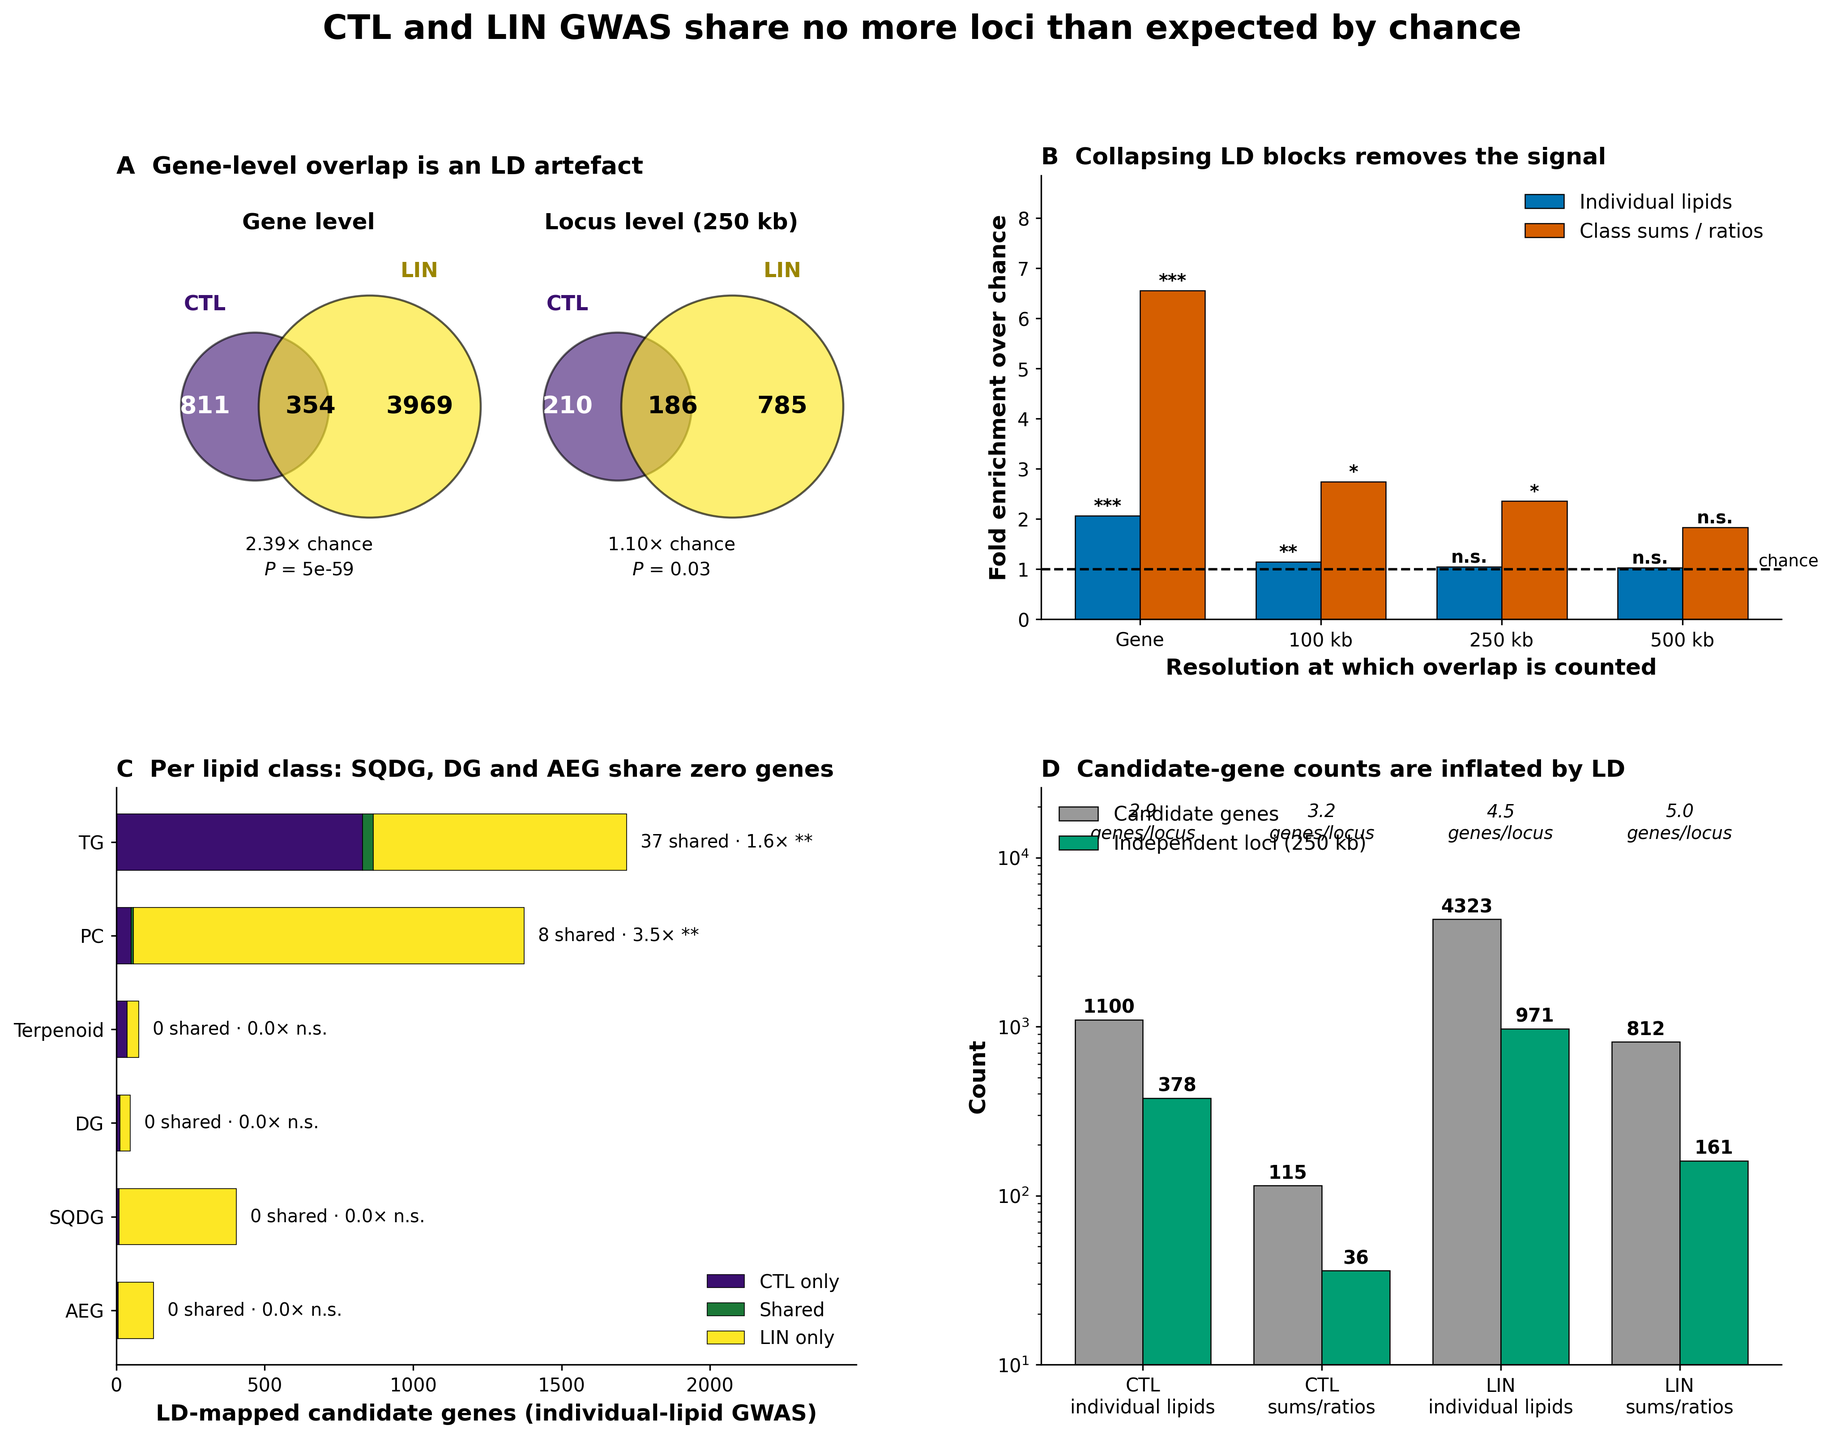
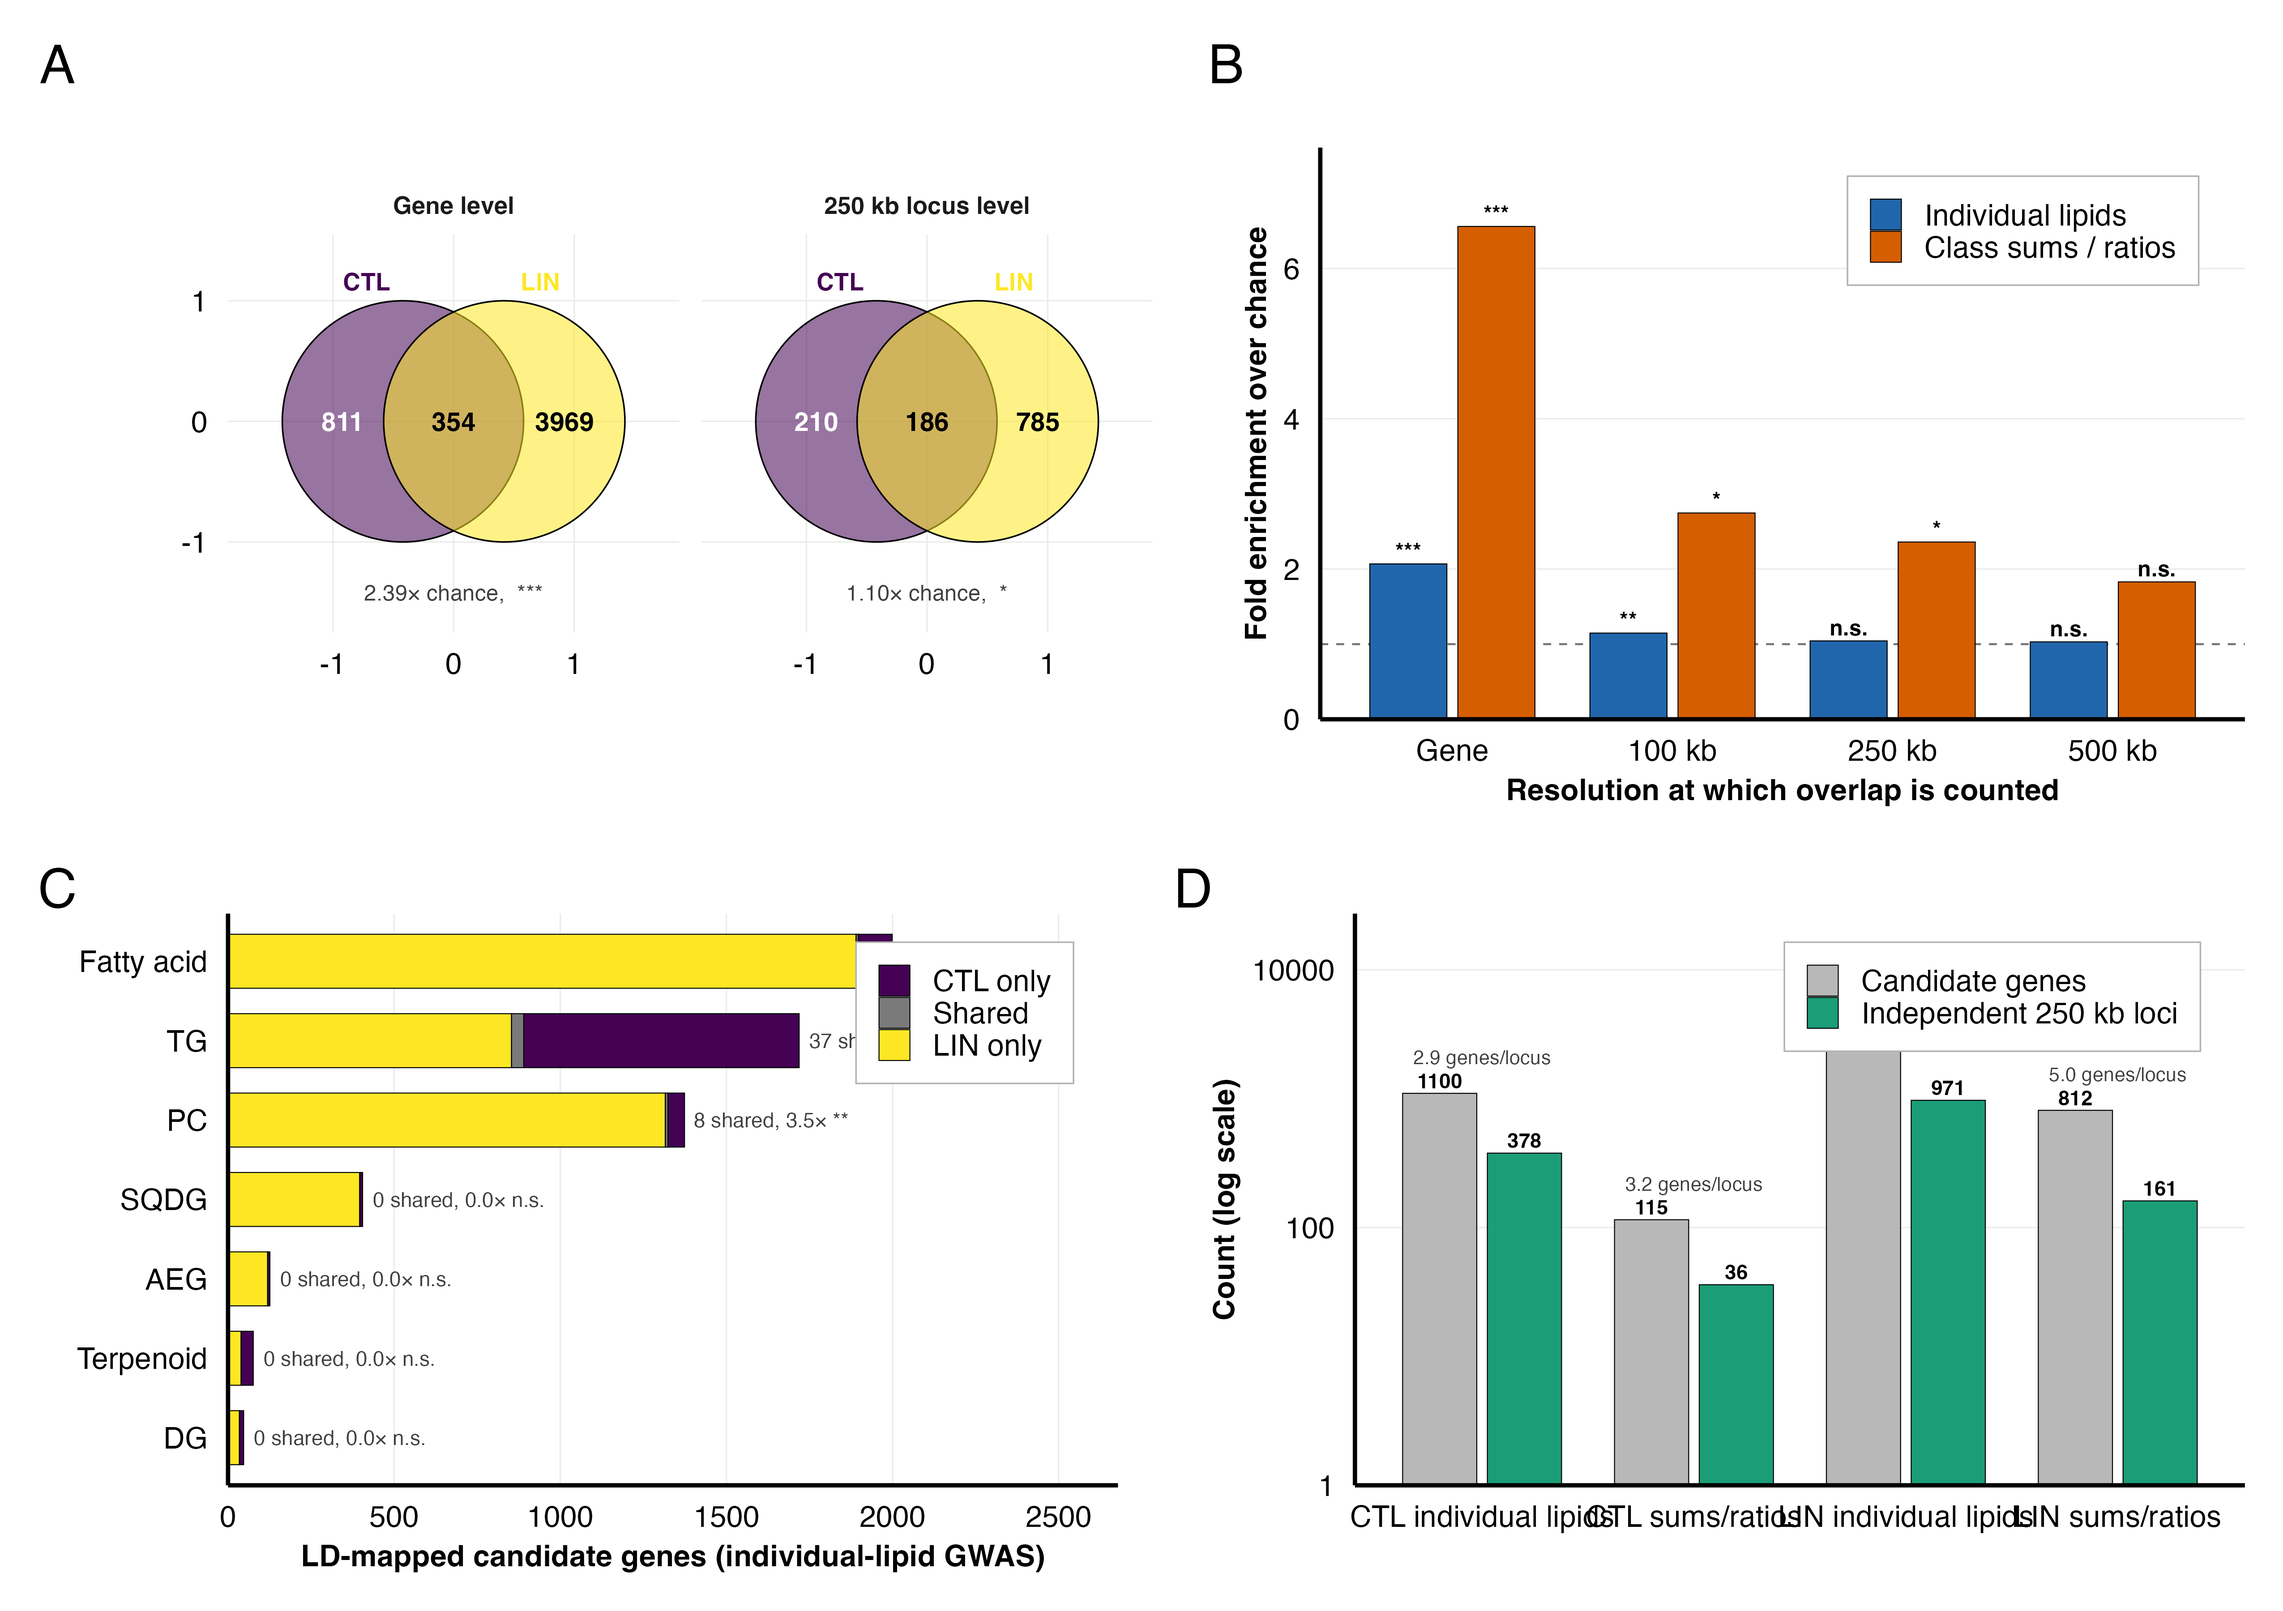
udpate supp tables

diff --git a/scripts/new_new_script/README.md b/scripts/new_new_script/README.md
@@ -19,6 +19,7 @@ from the repository root.
 | 10 | `10_SuppTableS16_GO_collapse_and_rank.R` | Supp Table S16 + `tables/chapter2_go_enrichment.tex` | GO enrichment |
 | 11 | `11_Fig4_GO_enrichment.R` | **Figure 4** — GO terms by lipid class | GO enrichment |
 | 12 | `12_Fig5_linex.R` | **Figure 5** — LINEX subnetwork and GWAS support | LINEX |
+| 13 | `13_SuppFig8_ctl_lin_overlap.R` | Supp Fig S8 — CTL/LIN candidate overlap | GWAS overlap |
 |  | `_common.R` | Paths, palettes, `plot_theme`, shared data builders. Sourced by all of the above. | |
 
 Figure 6 is a Shiny application screenshot
